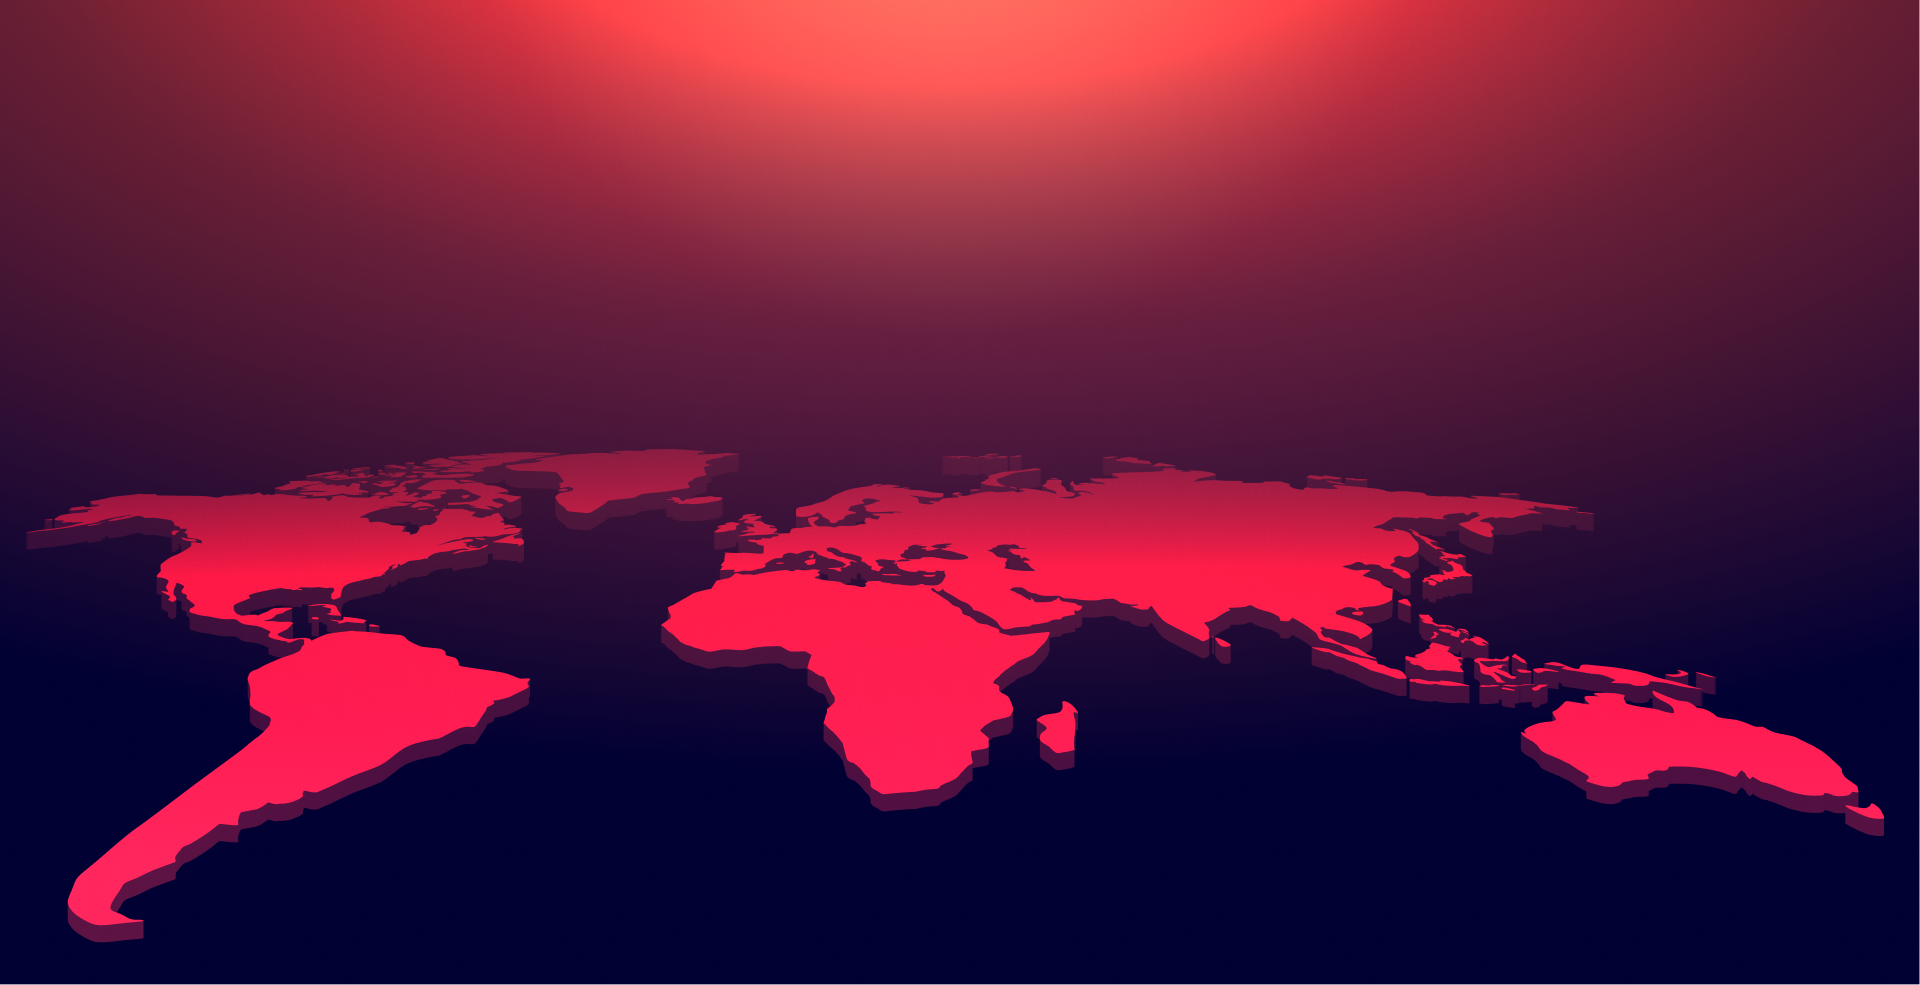
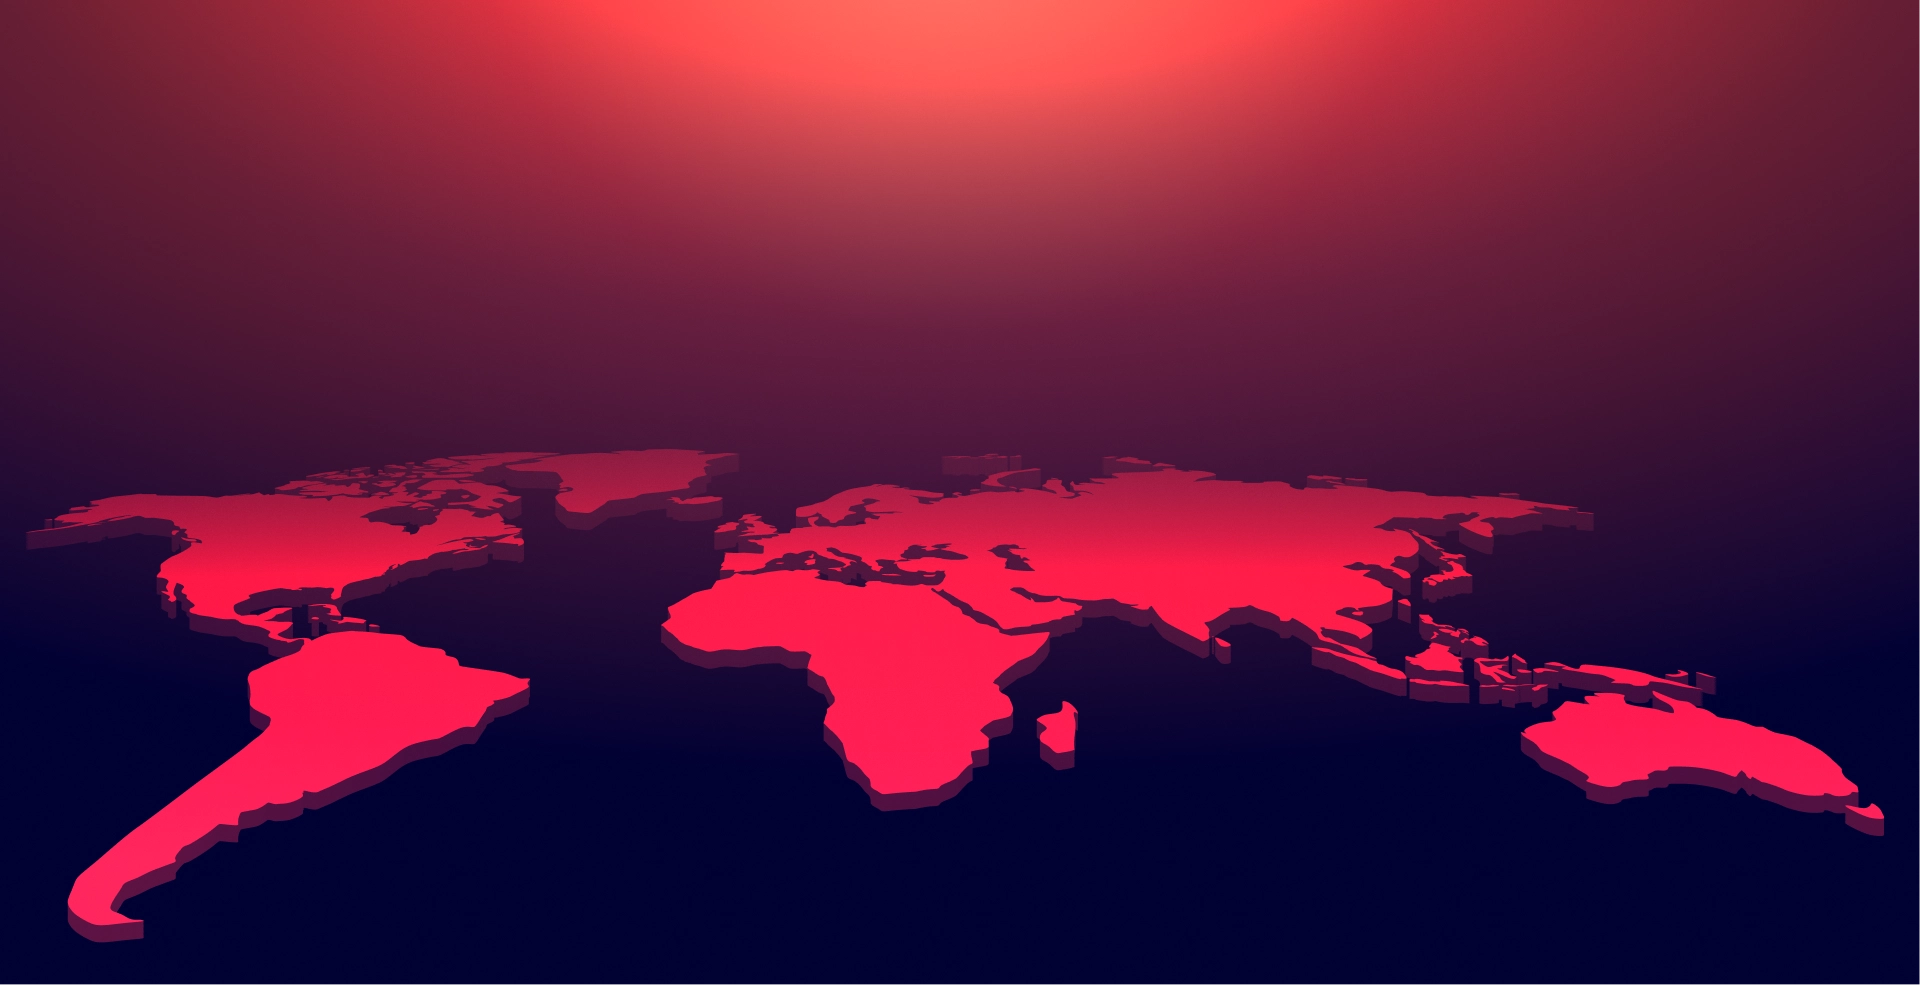
Compress characters images and background image size

diff --git a/src/views/components/dialogue.js b/src/views/components/dialogue.js
@@ -1,19 +1,19 @@
-import hostileAdmiralNeutral from "../../assets/hostile-admiral-neutral.png";
-import hostileAdmiralBoisterous from "../../assets/hostile-admiral-lol.png";
-import hostileAdmiralAnnoyed from "../../assets/hostile-admiral-annoyed.png";
-import hostileAdmiralArrogant from "../../assets/hostile-admiral-arrogant.png";
-import hostileAdmiralDismissive from "../../assets/hostile-admiral-bored.png";
-import hostileAdmiralFrustrated from "../../assets/hostile-admiral-frustrated.png";
-import hostileAdmiralBored from "../../assets/hostile-admiral-dismissive.png";
-import hostileAdmiralDisinterested from "../../assets/hostile-admiral-digging-ear.png";
-import friendlySoldierNeutral from "../../assets/friendly-soldier-neutral.png";
-import friendlySoldierEmbarrassed from "../../assets/friendly-soldier-embarrassed.png";
-import friendlySoldierSalute from "../../assets/friendly-soldier-salute.png";
-import friendlySoldierRegretful from "../../assets/friendly-soldier-regretful.png";
-import friendlySoldierEnthusiastic from "../../assets/friendly-soldier-enthusiastic.png";
-import friendlySoldierEncouraging from "../../assets/friendly-soldier-encouraging.png";
-import friendlySoldierDetermined from "../../assets/friendly-soldier-determined.png";
-import friendlySoldierAngry from "../../assets/friendly-soldier-angry.png";
+import hostileAdmiralNeutral from "../../assets/hostile-admiral-neutral.webp";
+import hostileAdmiralBoisterous from "../../assets/hostile-admiral-lol.webp";
+import hostileAdmiralAnnoyed from "../../assets/hostile-admiral-annoyed.webp";
+import hostileAdmiralArrogant from "../../assets/hostile-admiral-arrogant.webp";
+import hostileAdmiralDismissive from "../../assets/hostile-admiral-bored.webp";
+import hostileAdmiralFrustrated from "../../assets/hostile-admiral-frustrated.webp";
+import hostileAdmiralBored from "../../assets/hostile-admiral-dismissive.webp";
+import hostileAdmiralDisinterested from "../../assets/hostile-admiral-digging-ear.webp";
+import friendlySoldierNeutral from "../../assets/friendly-soldier-neutral.webp";
+import friendlySoldierEmbarrassed from "../../assets/friendly-soldier-embarrassed.webp";
+import friendlySoldierSalute from "../../assets/friendly-soldier-salute.webp";
+import friendlySoldierRegretful from "../../assets/friendly-soldier-regretful.webp";
+import friendlySoldierEnthusiastic from "../../assets/friendly-soldier-enthusiastic.webp";
+import friendlySoldierEncouraging from "../../assets/friendly-soldier-encouraging.webp";
+import friendlySoldierDetermined from "../../assets/friendly-soldier-determined.webp";
+import friendlySoldierAngry from "../../assets/friendly-soldier-angry.webp";
 
 const characterAssets = {
     friendly: {

diff --git a/webpack.config.js b/webpack.config.js
@@ -29,7 +29,7 @@ export default {
                 use: ["html-loader"],
             },
             {
-                test: /\.(png|svg|jpg|jpeg|gif)$/i,
+                test: /\.(png|svg|jpg|jpeg|gif|webp)$/i,
                 type: "asset/resource",
             },
             {